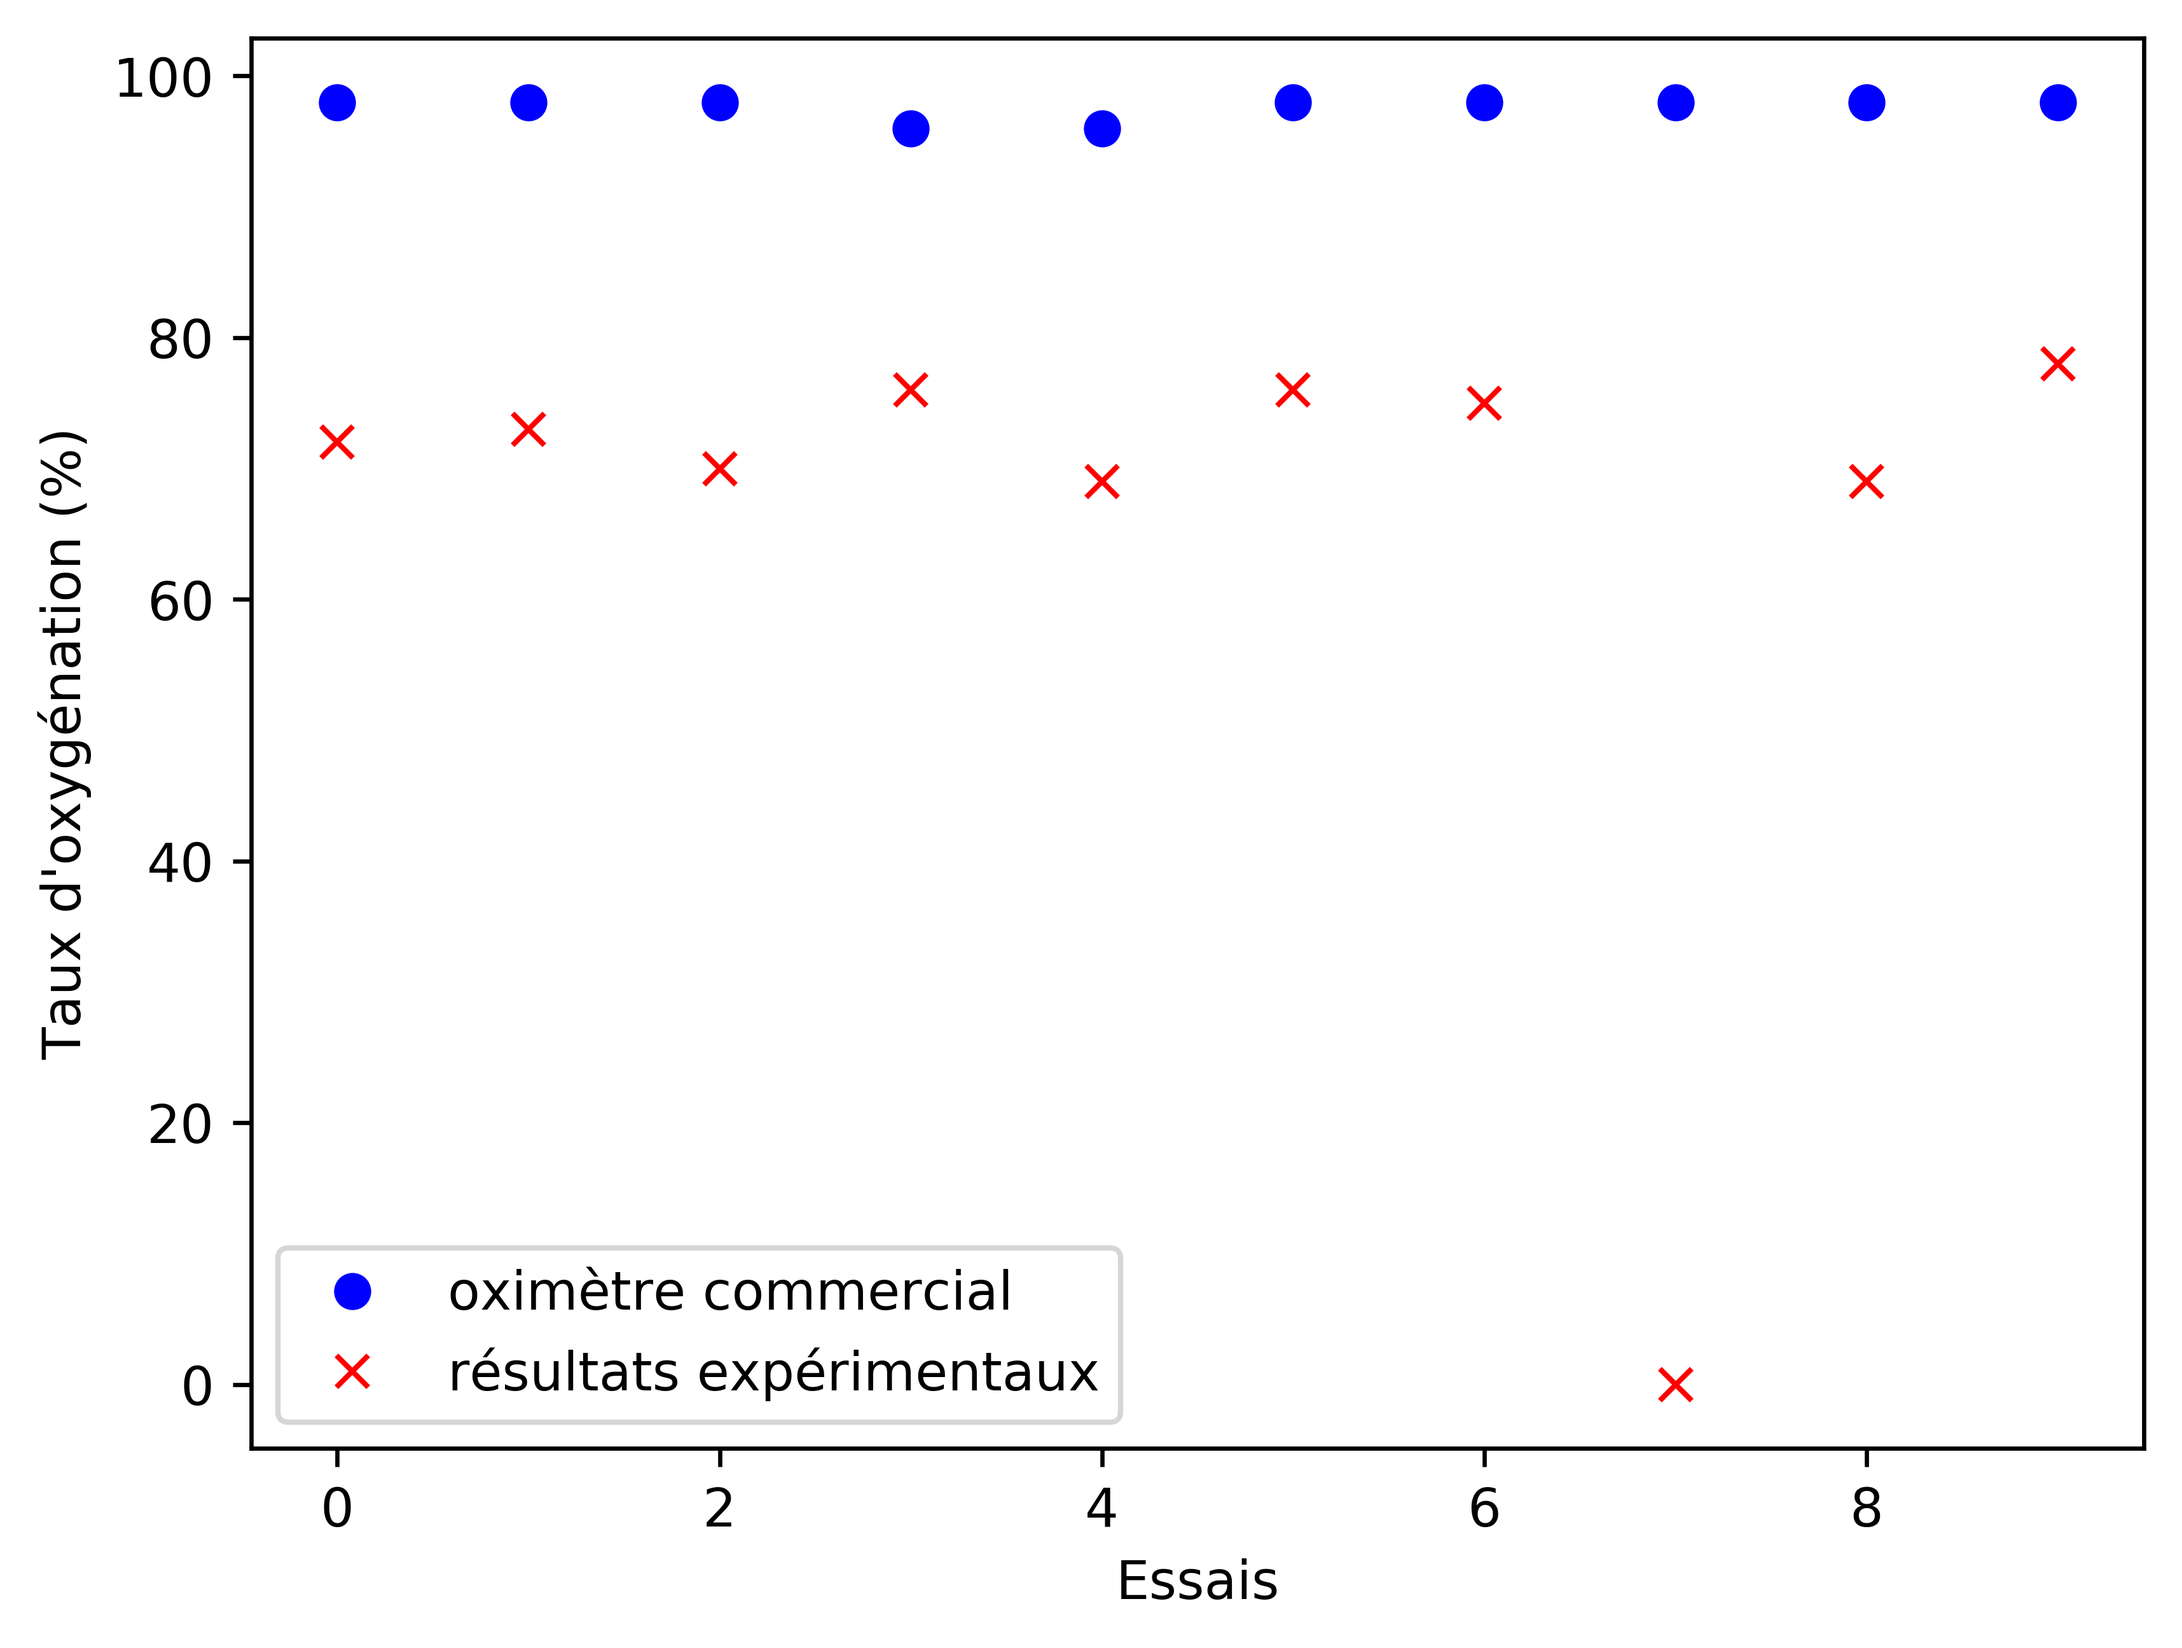
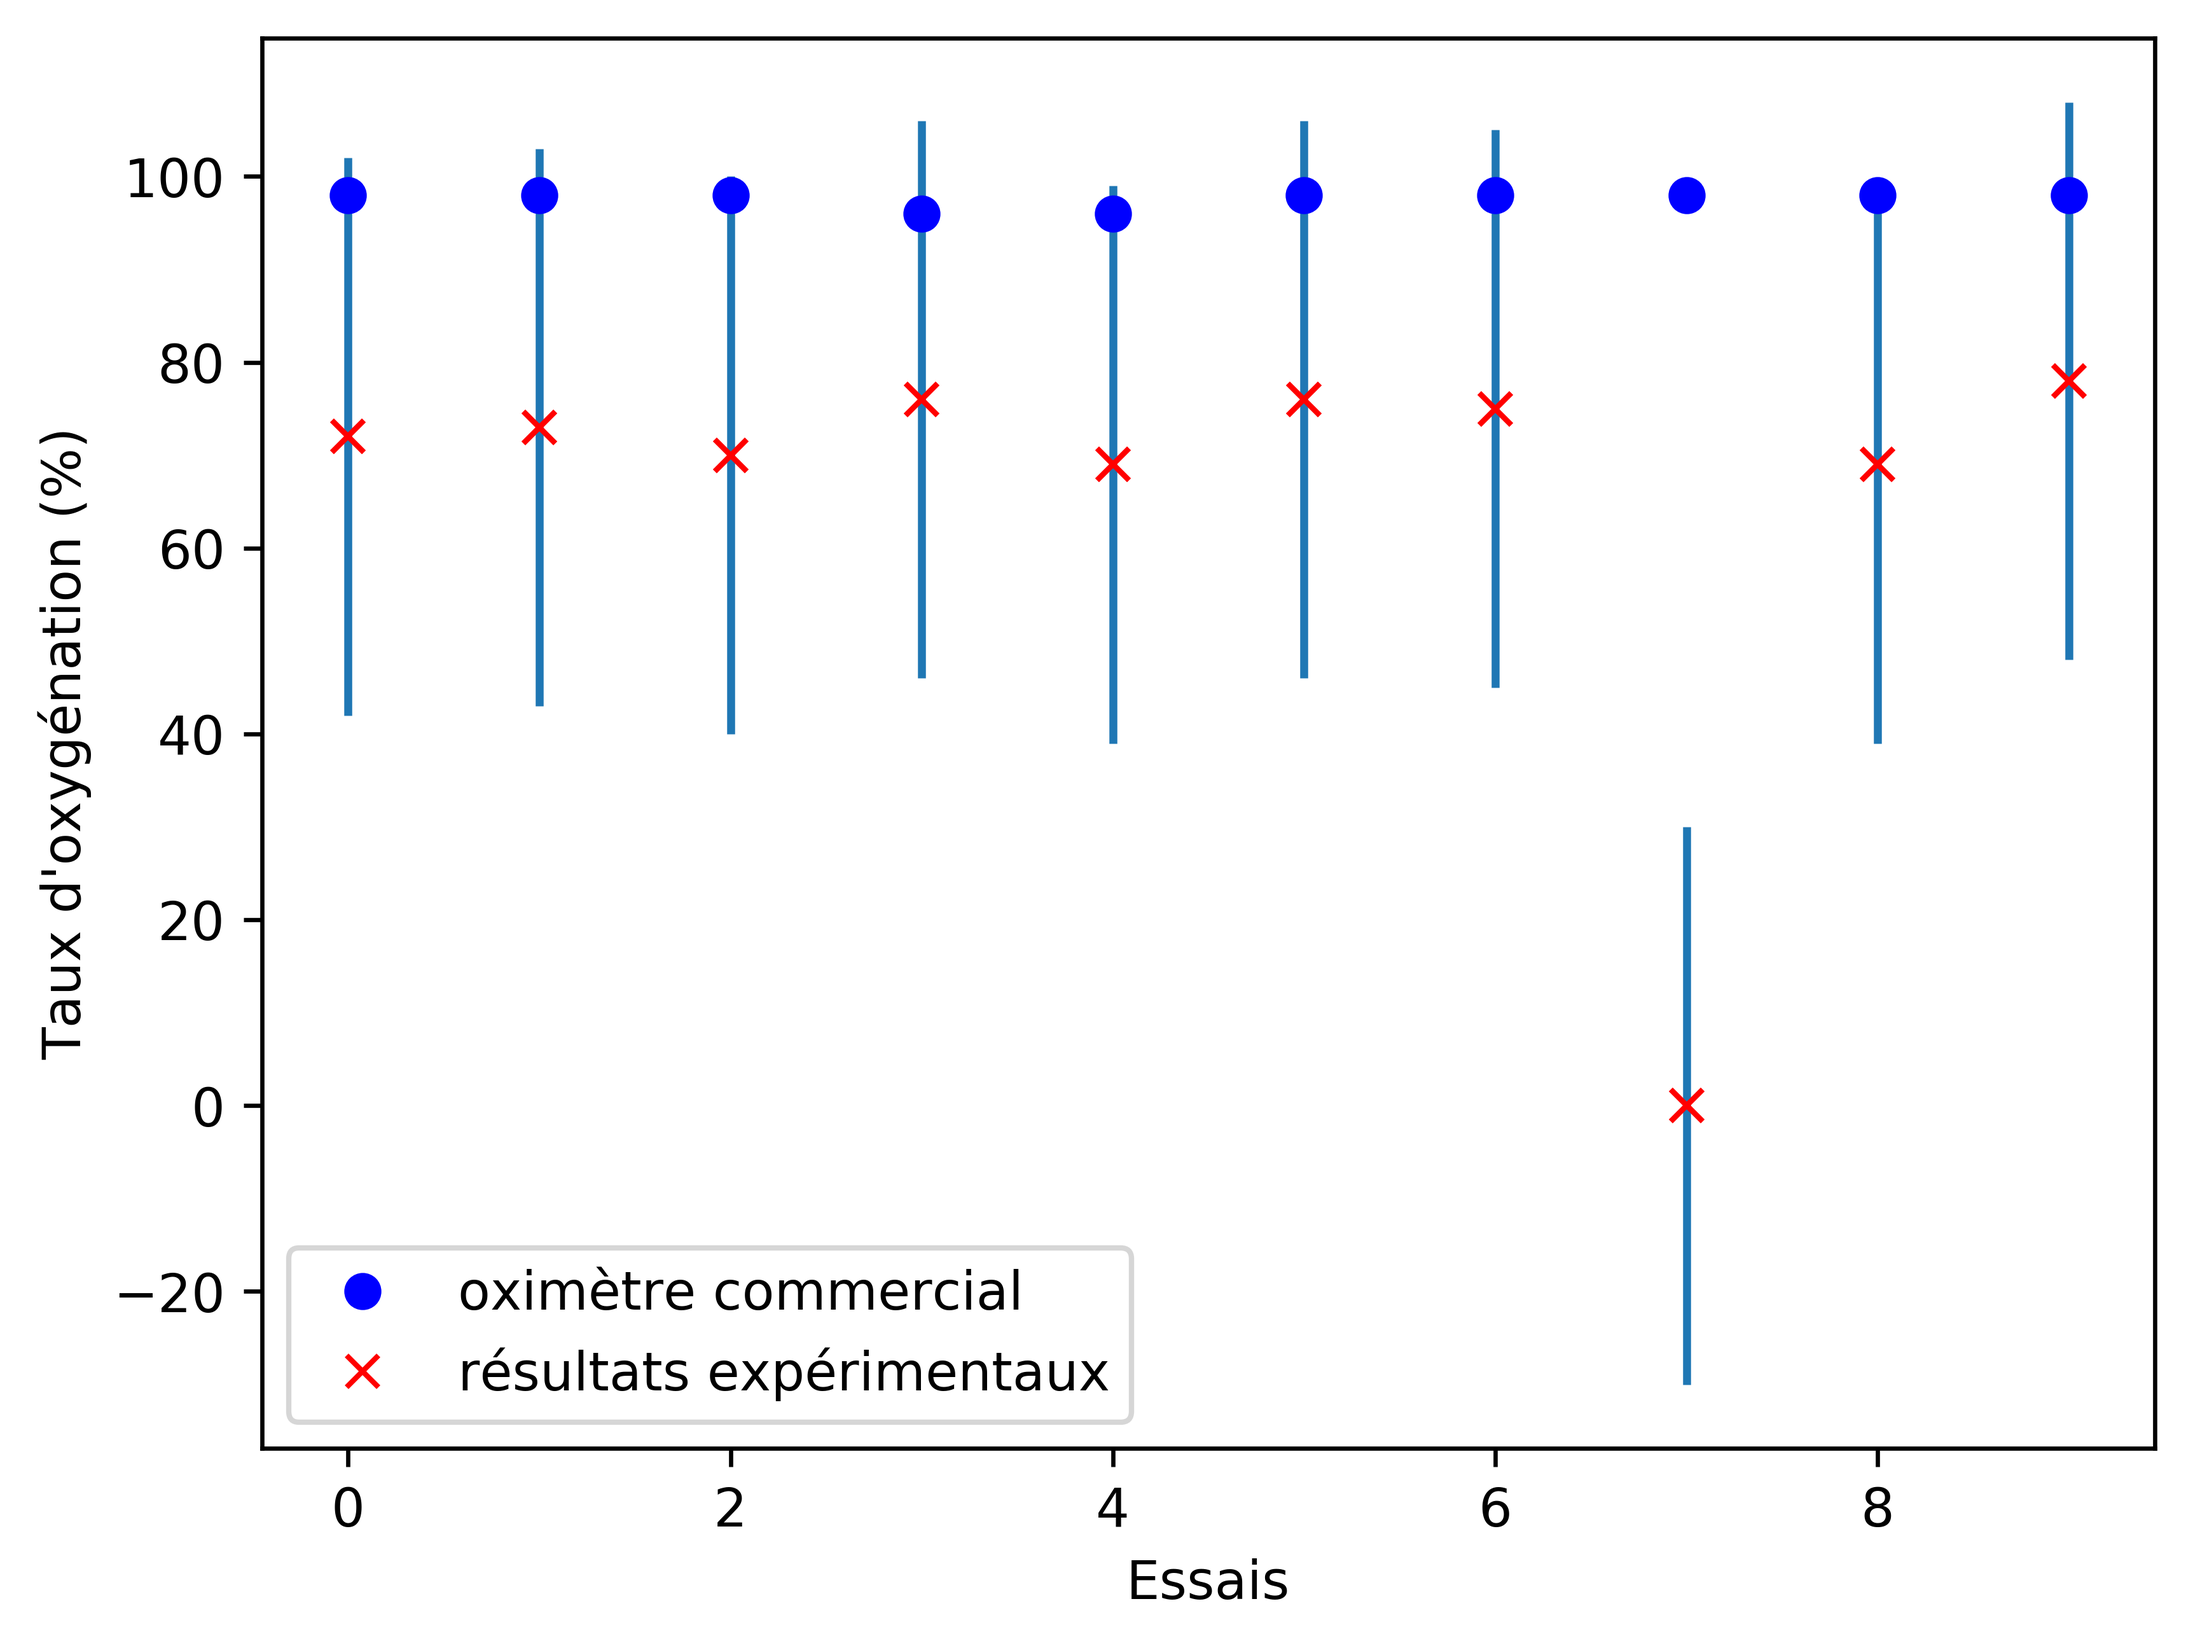
incertitude

diff --git a/incertitude.py b/incertitude.py
@@ -1,0 +1,48 @@
+import numpy as np
+from matplotlib import pyplot as plt
+import pandas as pd
+
+
+# On utilise l'essais 4 pour calculer l'incertitude sur le taux
+
+# ir_max = 0.7
+# ir_min = 0.6
+# r_max = 4.057854067180774
+# m_min = 3.751720181004501
+
+position = r'C:\Users\gabrielle\Desktop\Université\Session 4\Optique (lab)\oximetre\F0004CH1.CSV'
+data = np.array(pd.read_csv(position, usecols=[3, 4])).transpose()
+
+#plt.plot(data[0], data[1])
+#plt.show()
+
+# r_max
+
+r_max_max = 4.1
+r_max_min = 4.08
+r_max_rel = 0.02/4.09
+
+# r_min
+
+r_min_max = 3.86
+r_min_min = 3.84
+r_min_rel = 0.02/3.85
+
+# ir_max
+
+ir_max_max = 0.68
+ir_max_min = 0.66
+ir_max_rel = 0.02/0.67
+
+# ir_min
+
+ir_min_max = 0.64
+ir_min_min = 0.62
+ir_min_rel = 0.02/0.63
+
+print(ir_max_rel, ir_min_rel, r_max_rel, r_min_rel)
+
+ratio = np.log(r_min_rel+r_max_rel)/np.log(ir_min_rel+ir_max_rel)
+taux_ox_incert = 0.81 - 0.18*ratio/(0.81 - 0.08 + (0.29 - 0.18) * ratio)
+
+print(taux_ox_incert*69)

diff --git a/figure.py b/figure.py
@@ -12,14 +12,19 @@ pouls_c = data[2]
 taux_e = data[3]
 pouls_e = data[4]
 
+# figure taux
+
 f = plt.figure()
 plt.plot(essais, taux_c, "bo", label="oximètre commercial")
 plt.plot(essais, taux_e, "rx", label="résultats expérimentaux")
 plt.legend()
+plt.errorbar(essais, taux_e, yerr=30, mec="red", marker="x", fmt=' ')
 plt.xlabel("Essais")
 plt.ylabel("Taux d'oxygénation (%)")
 plt.show()
 f.savefig("taux.png", bbox_inches='tight',dpi=600)
+
+# figure pouls
 
 g = plt.figure()
 plt.plot(essais, pouls_c, "bo", label="oximètre commercial")
@@ -27,5 +32,5 @@ plt.plot(essais, pouls_e, "rx", label="résultats expérimentaux")
 plt.legend()
 plt.xlabel("Essais")
 plt.ylabel("Pouls (bpm)")
-plt.show()
-g.savefig("pouls.png", bbox_inches='tight',dpi=600)
+#plt.show()
+#g.savefig("pouls.png", bbox_inches='tight',dpi=600)

diff --git a/analyse_datat.py b/analyse_datat.py
@@ -108,7 +108,8 @@ for i in range(10):
     r_max = np.nanmean(np.array(r_max))
     r_min = np.nanmean(np.array(r_min))
 
-    #print(ir_max, ir_min, freq_card)
+    if i == 4:
+        print(ir_max, ir_min, r_max, r_min)
 
     ratio = np.log(r_min/r_max)/np.log(ir_min/ir_max)
     taux_ox = 0.81 - 0.18*ratio/(0.81 - 0.08 + (0.29 - 0.18) * ratio)
